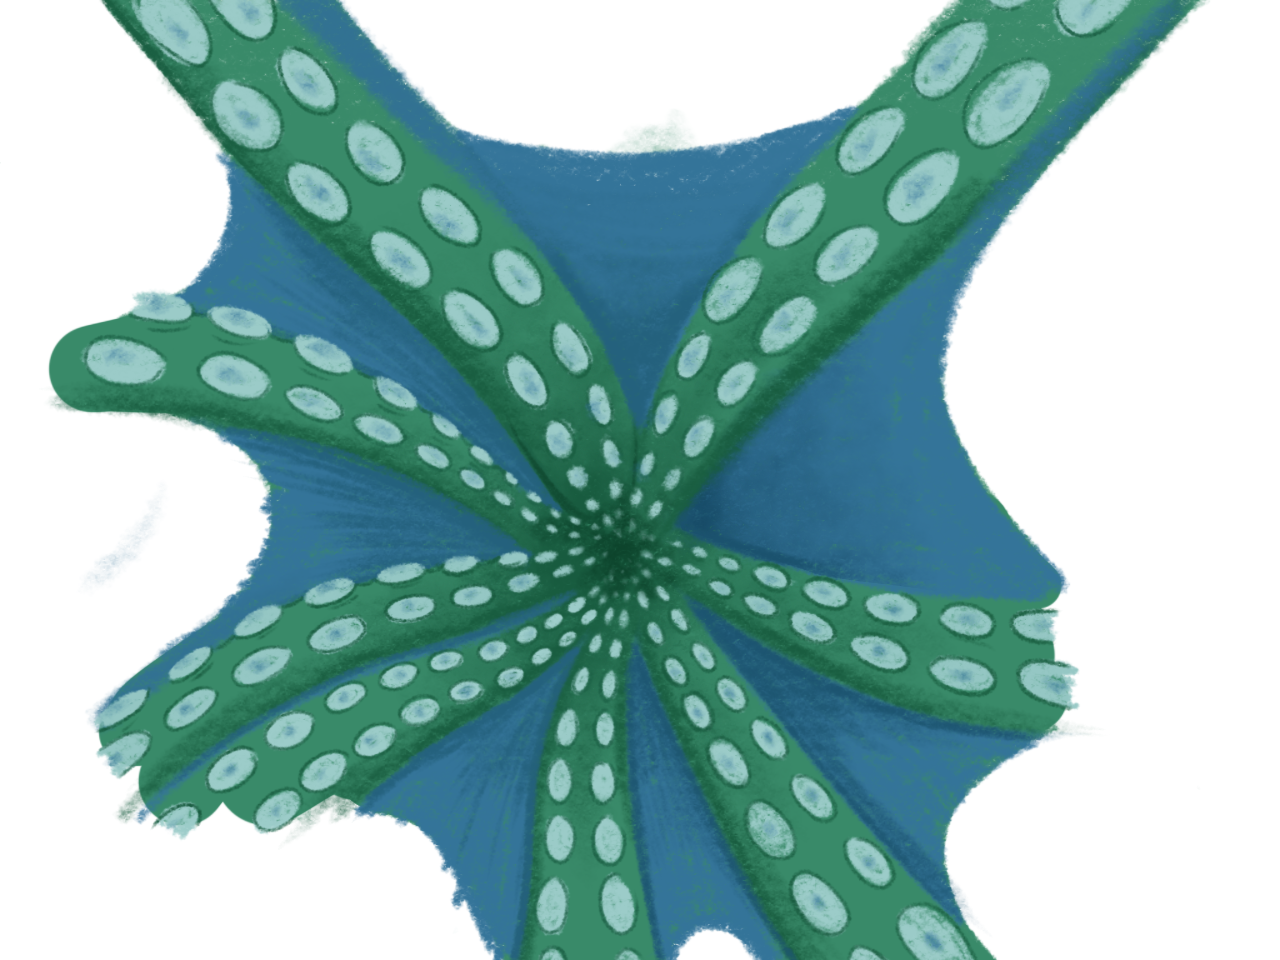
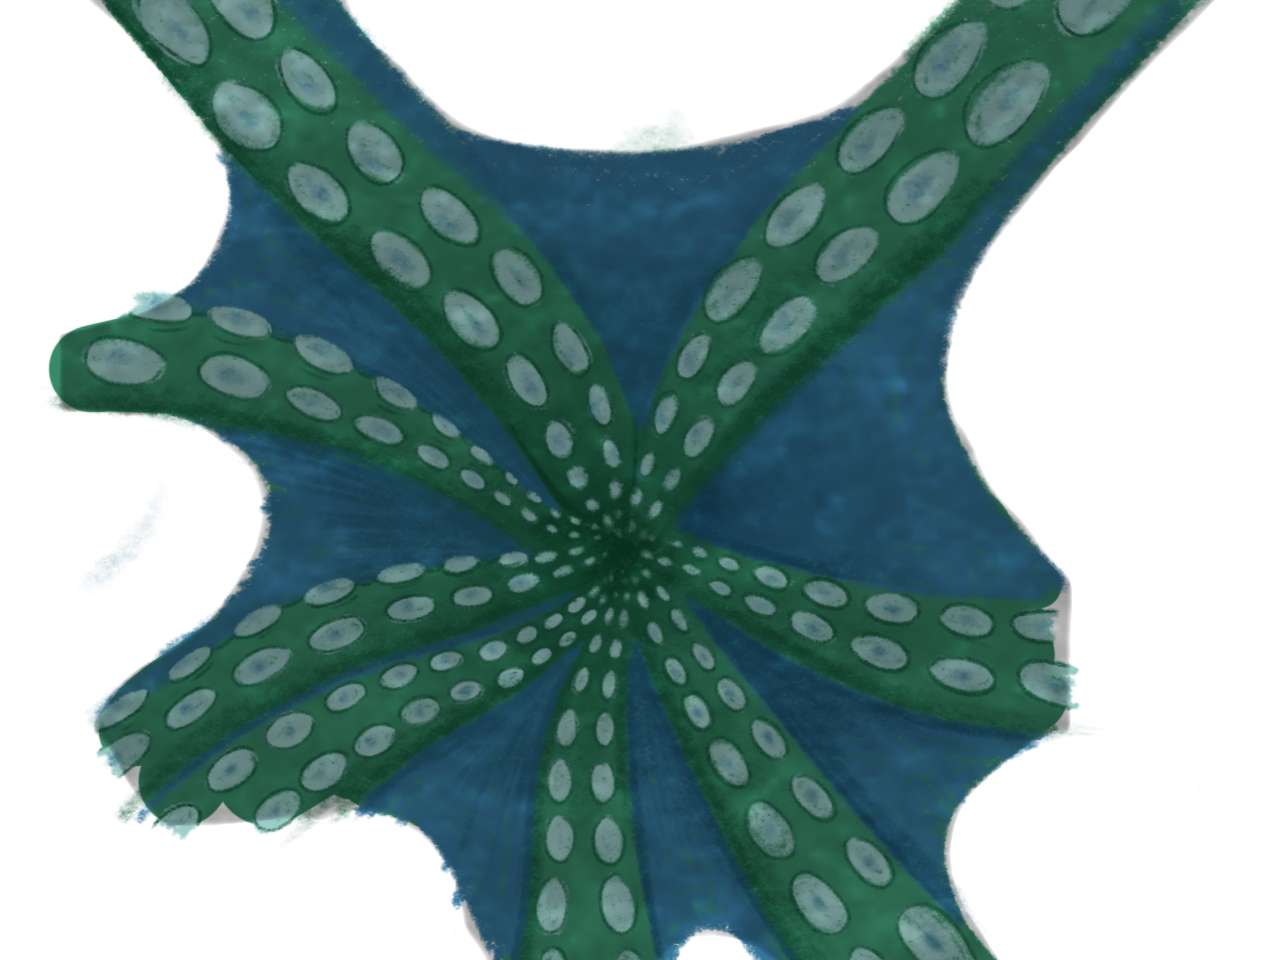
oct 16th (nearly done)

diff --git a/Draw_interaction.js b/Draw_interaction.js
@@ -11,14 +11,15 @@ function prepareInteraction() {
  partycrabImage =  loadImage('images/partycrab overlay.png');
  clawcrabImage =  loadImage('images/clawcrab.png');
  clawcrab2Image =  loadImage('images/clawcrab2.png');
- //other
+ //other3
  nemoImage =  loadImage('images/nemo.png');
  doryImage =  loadImage('images/dory.png');
  confettiImage =  loadImage('images/confetti.png');
  octopusImage =  loadImage('images/octopus.png');
  octopusImage2 =  loadImage('images/octopus full.png');
-
-
+ octopusImage3 =  loadImage('images/octopus mid.png');
+  octopusImage4 =  loadImage('images/octopus close.png');
+ inkImage =  loadImage('images/ink.png');
  fishMove = 1000;
  fishMove2 = 1280;
  Yvalue = 0;
@@ -77,13 +78,6 @@ if (hand.handedness === "Left") {
    image(nemoImage,indexFingerTipX,indexFingerTipY,150,100)
    pop() 
 }
-//OCTOPUS
-  if(detectHandGesture = "Thumbs Up"){
-      image(octopusImage,0,0,1280,960)
-  if (detectHandGesture = "Peace"){
-      image(octopusImage2,0,0,1280,960)
-    }
-    }
 
     /*
     Stop drawing on the hands here
@@ -148,20 +142,39 @@ if (hand.handedness === "Left") {
     /*
     Start drawing on the face here
     */
+
+//OCTOPUS
+
+ let faceSize = dist(sideFaceX,sideFaceY, sideFaceX2,sideFaceY2)
+ //console.log(faceSize) //170, 390
+
+if (faceSize >= 260 && faceSize <= 300 ){
+    image(octopusImage,0,0,1280,960)
+  }
+if (faceSize >= 300 && faceSize <= 340){
+    image(octopusImage2,0,0,1280,960)
+  }  
+if (faceSize >= 340 && faceSize <= 390){
+    image(octopusImage3,0,0,1280,960)
+  }  
+if (faceSize >= 390){
+    image(octopusImage4,0,0,1280,960)
+  }  
+
 //EYES
    strokeWeight(10)
    stroke(0)
    line(LeyeStemX,LeyeStemY,leftEyeCenterX,leftEyeCenterY)
+
 //CRAB
    line(ReyeStemX,ReyeStemY,rightEyeCenterX,rightEyeCenterY)
    let eyedist = dist(leftEyeCenterX,leftEyeCenterY,rightEyeCenterX,rightEyeCenterY)
    //console.log(eyedist) //210 and 70
    let crabSize = map(eyedist,210,70,700,150)
+
 //CRAB CLAWS
-    let mouthopen = dist(toplipX,toplipY, bottomlipX,bottomlipY)
-   //console.log(mouthopen) //1 and 90
-
-
+   let mouthopen = dist(toplipX,toplipY, bottomlipX,bottomlipY)
+   console.log(mouthopen) //1 and 90
 if (mouthopen < 15){
   push()
    imageMode(CENTER)
@@ -199,31 +212,29 @@ if (mouthopen >= 50){
   pop()
  }
 
+ if (faceSize >= 260 && faceSize <= 330){
+  push()
+   imageMode(CENTER)
+   image(tatcrabImage1,noseTipX,noseTipY+75,crabSize+120,crabSize)
+  pop()
+ }
 
- let faceSize = dist(sideFaceX,sideFaceY, sideFaceX2,sideFaceY2)
- //console.log(faceSize) //170, 390
-
-
- if (faceSize >= 200 && faceSize <= 280){
+ if (faceSize >= 330 && faceSize <= 360){
   push()
    imageMode(CENTER)
    image(tatcrabImage2,noseTipX,noseTipY+75,crabSize+120,crabSize)
   pop()
  }
 
- if (faceSize >= 280 && faceSize <= 340){
-  push()
-   imageMode(CENTER)
-   image(tatcrabImage2,noseTipX,noseTipY+75,crabSize+120,crabSize)
-  pop()
- }
-
- if (faceSize >= 340){
+ if (faceSize >= 360){
   push()
    imageMode(CENTER)
    image(tatcrabImage,noseTipX,noseTipY+75,crabSize+120,crabSize)
   pop()
  }
+
+
+
 
 //if (detectHandGesture = "Peace"){
 if (key==='p'){
@@ -260,8 +271,11 @@ if (key==='t'){
 
 
 
+ image(forefrontImage,0,0,1280,960)
 
-   
+      if (faceSize >= 430){
+    image(inkImage,0,0,1280,960)
+  }  
 
 
     // fill(225, 225, 0);
@@ -279,7 +293,8 @@ if (key==='t'){
   }
   //------------------------------------------------------
   // You can make addtional elements here, but keep the face drawing inside the for loop. 
-   image(forefrontImage,0,0,1280,960)
+  
+
 }
 
 
